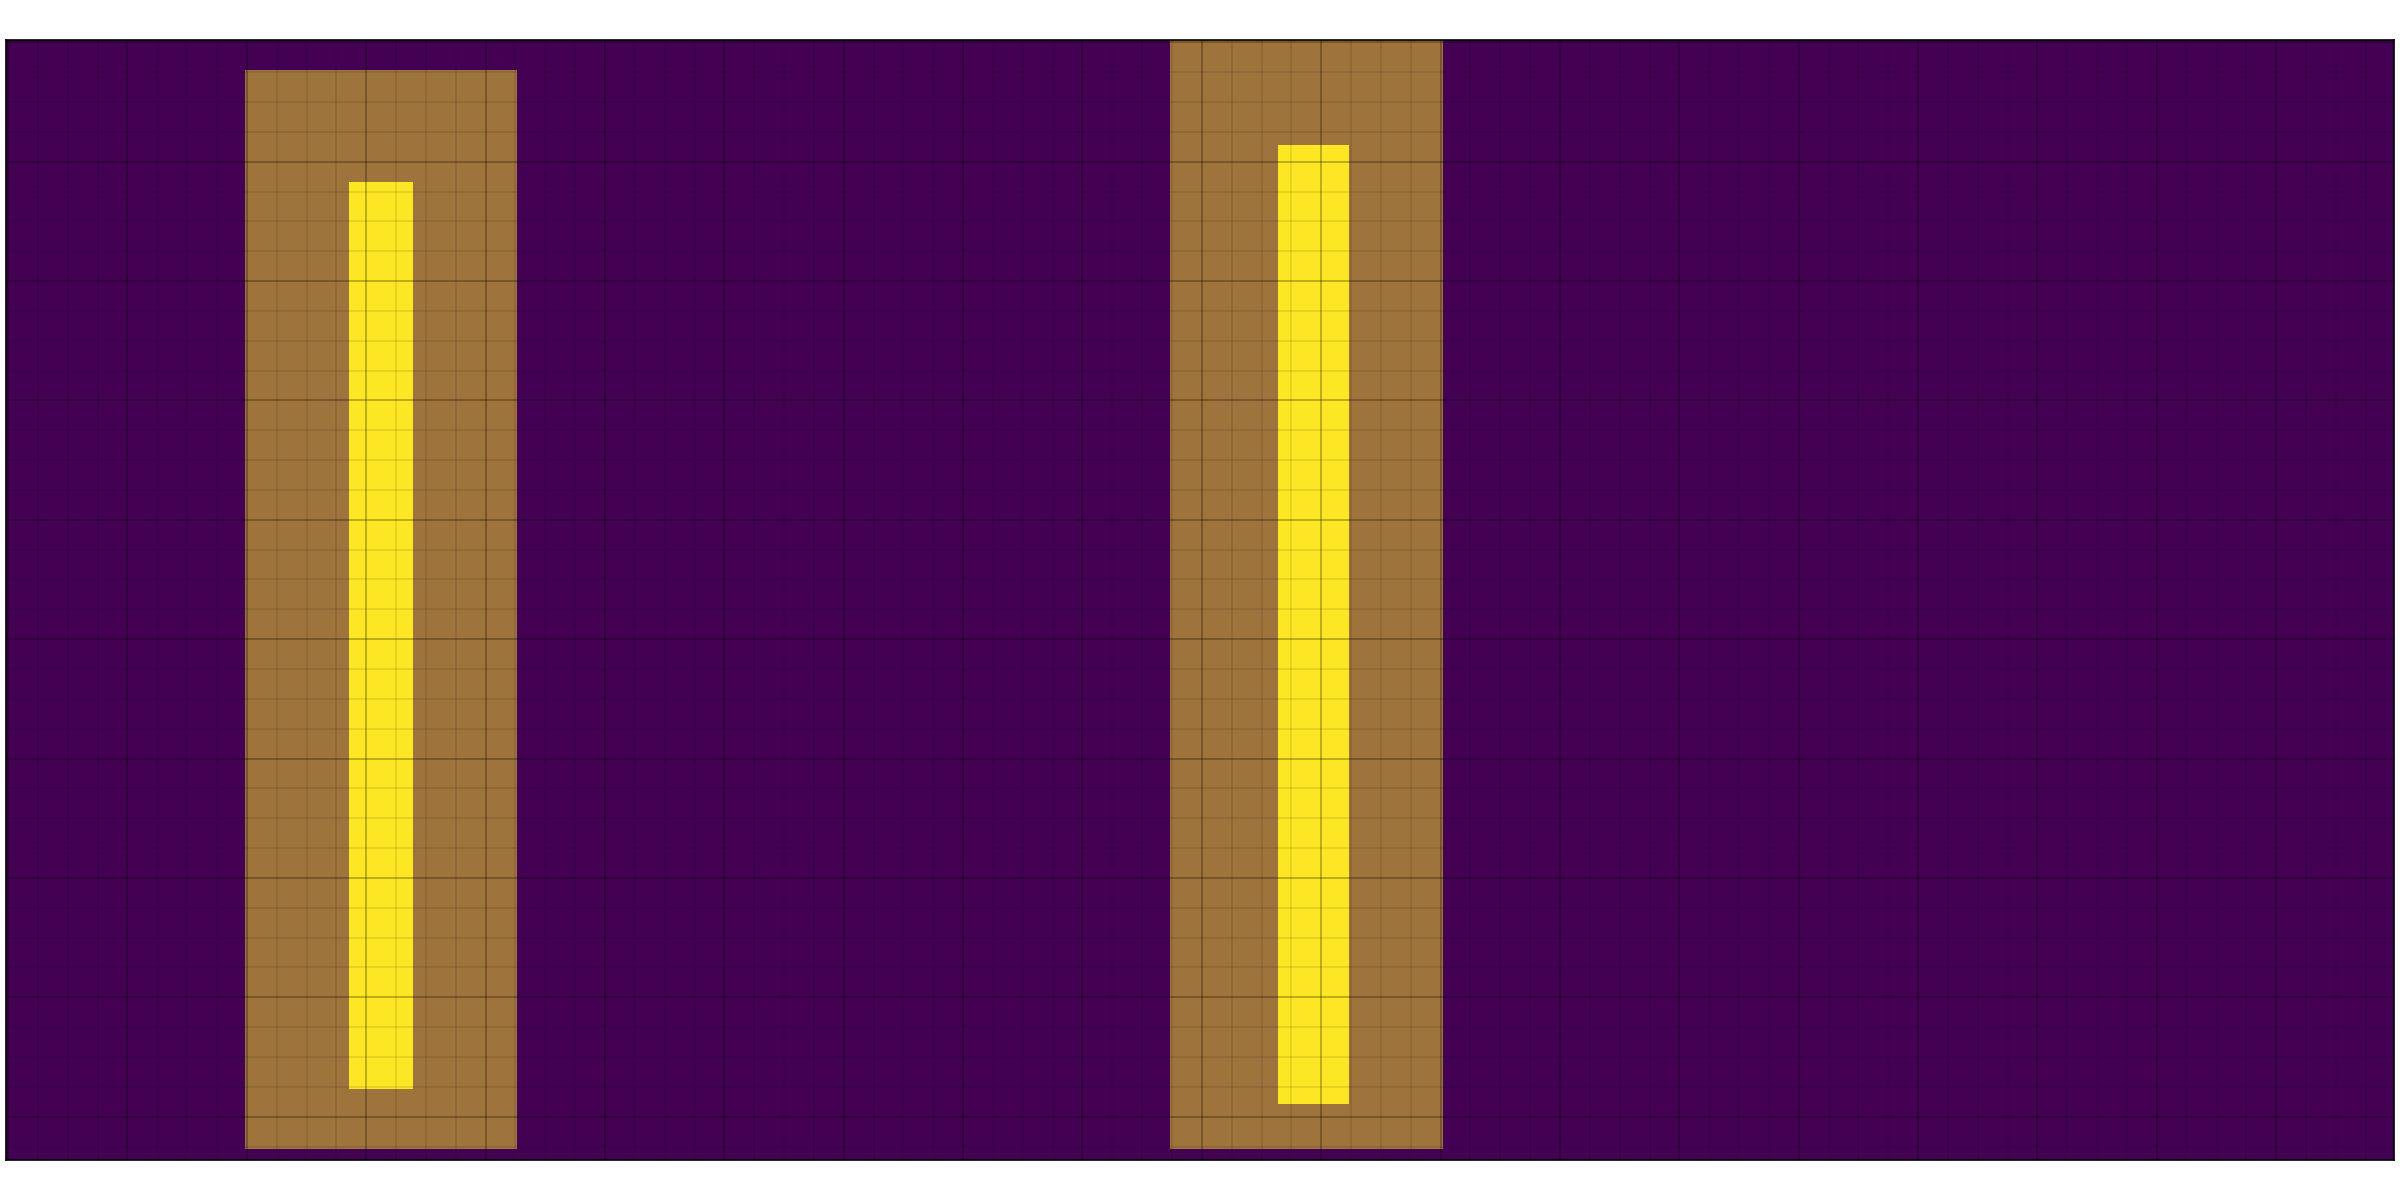
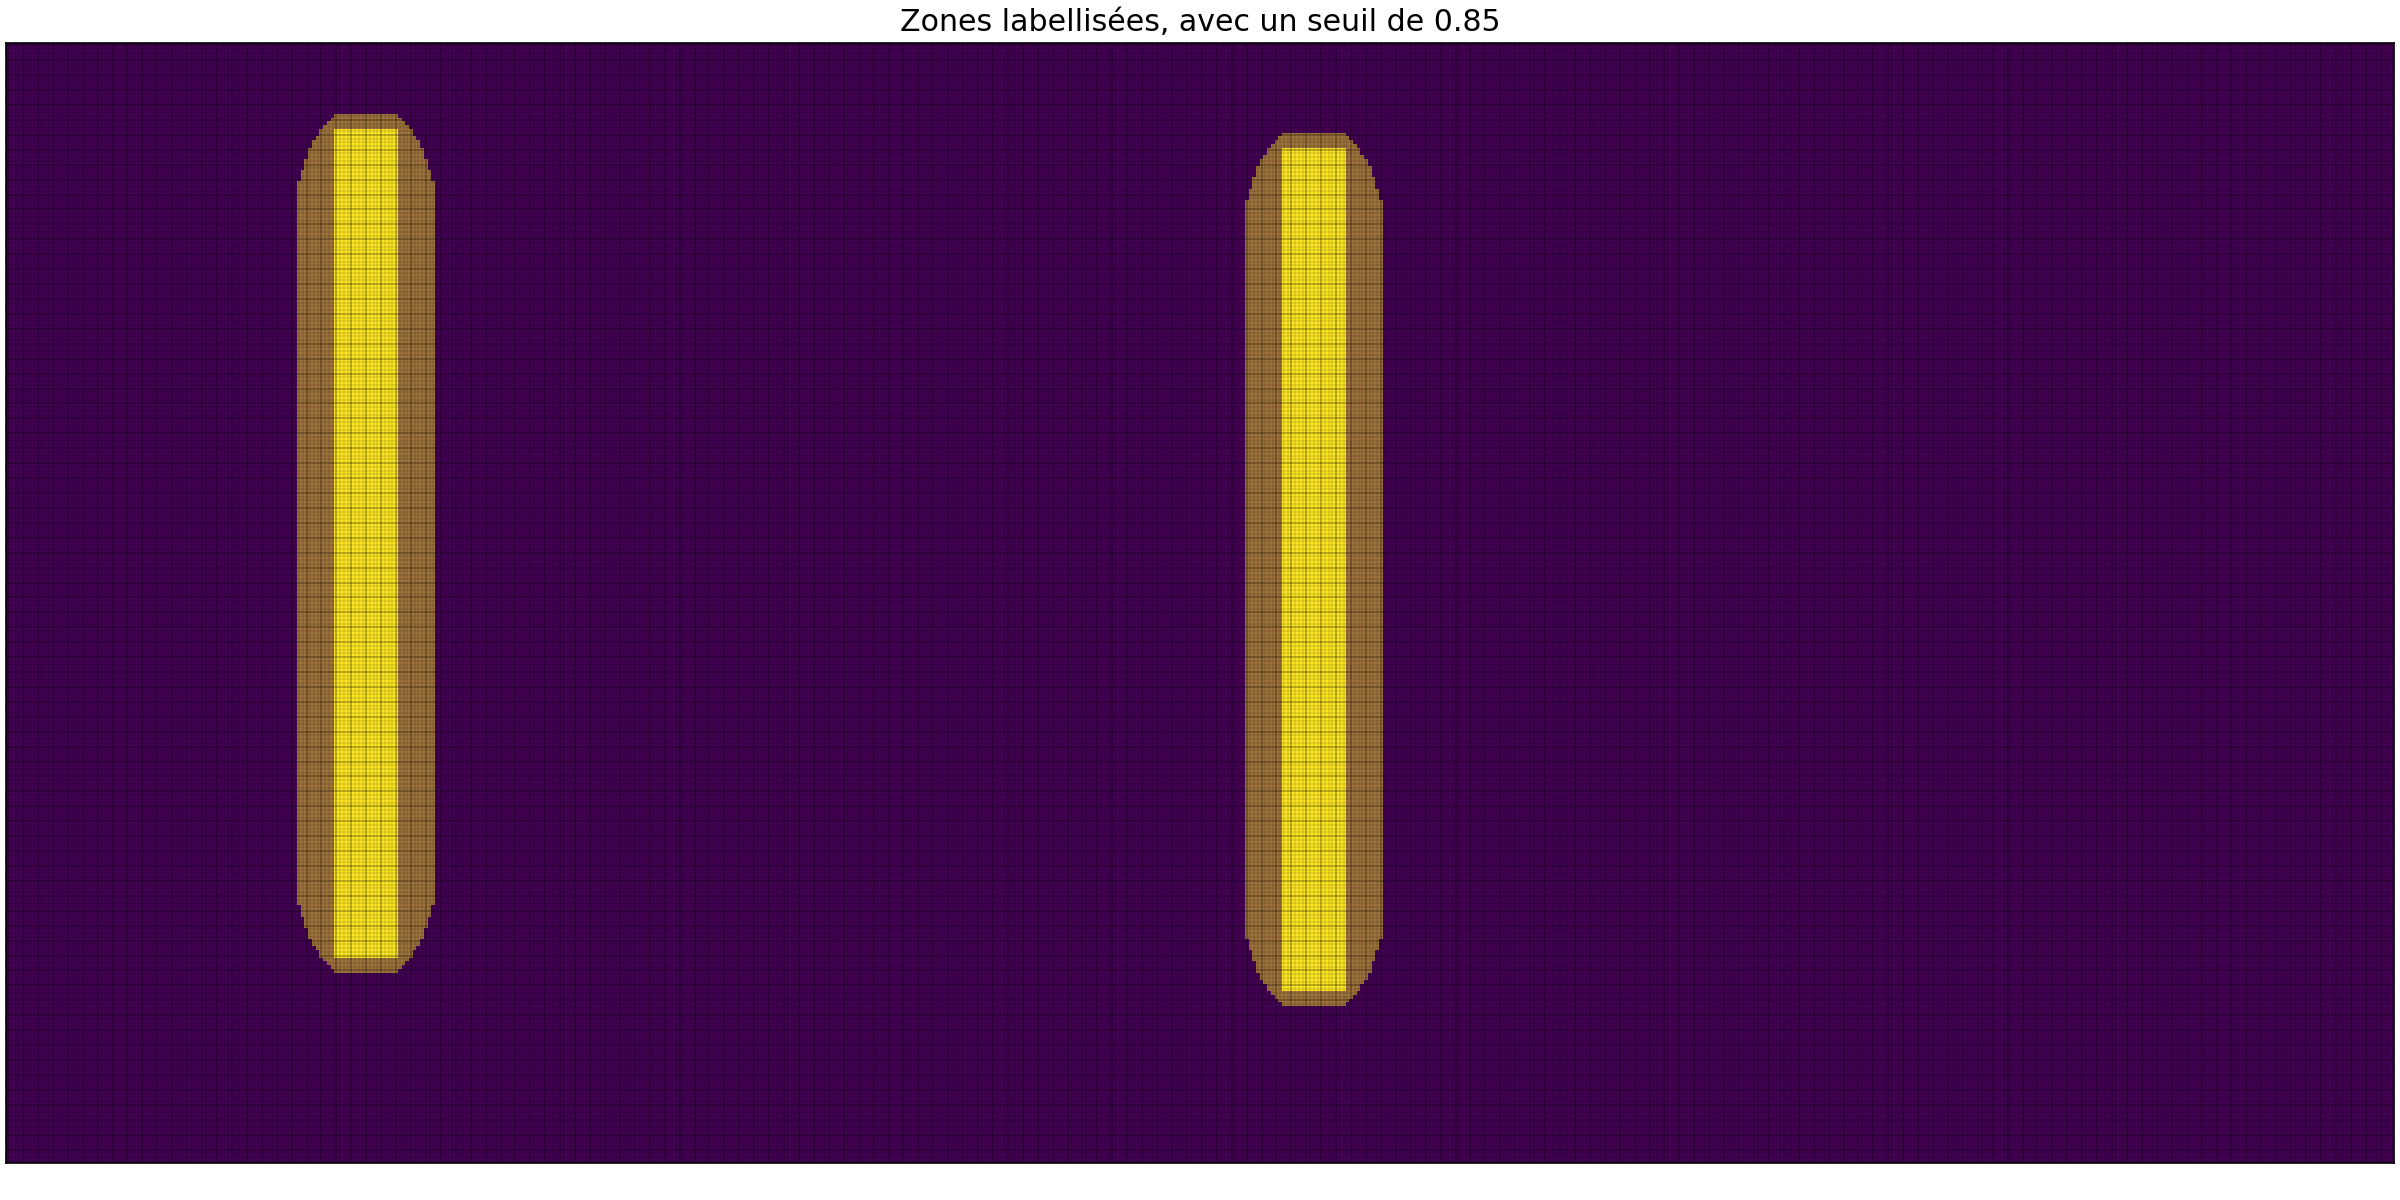
Ajout de seuil sur le masque.

diff --git a/ImageSynthetique.py b/ImageSynthetique.py
@@ -72,7 +72,7 @@ class Image:
 
         self.image = cv2.bitwise_and(self.image, self.image, mask = mask_2)
         self.image = cv2.add(self.image, image_resize)
-        self.objects.append({'spacing': spacing//times, 'length': length//times, 'lines': lines, 'coords': (rect_top,rect_bottom)})
+        self.objects.append({'coords': (rect_top,rect_bottom), 'spacing': spacing//times, 'length': length//times, 'lines': lines})
         pass
 
     def plot_masked(self):
@@ -80,7 +80,7 @@ class Image:
         fig = plt.imshow(masked, vmin=0, vmax=255)
         pass
 
-    def plot_label(self):
+    def plot_label(self,with_coords=True):
         fig = plt.figure()
         plt.imshow(self.image, vmin=0, vmax=255)
         for obj in self.objects:
@@ -90,11 +90,12 @@ class Image:
             h = coords[1][1] - coords[0][1]
             plt.gca().add_patch(patches.Rectangle(pt,w,h,linewidth=1,edgecolor='r',facecolor='none'))
             text = ''
-            for attribute in list(obj.keys())[:-1]:
-                if attribute != list(obj.keys())[-2]:
-                    text += attribute + ': '+str(obj[attribute])+'\n'
+            for attribute in list(obj.keys()):
+                if with_coords and attribute == list(obj.keys())[0]:
+                    text += 'y: ('+ str(obj[attribute][0][1])+':'+str(obj[attribute][1][1])+')\n'
                 else:
-                    text += attribute + ': '+str(obj[attribute])
+                    text += attribute + ': '+str(obj[attribute])+'\n'
+            text = text[:-1]
             pad = 5
             plt.gca().text(pt[0]+w+1+pad/2, pt[1]+pad/2, text,
                             color='white',
@@ -104,13 +105,16 @@ class Image:
 
         return fig
 
-    def sliding_window(self, window_size, pad_h, pad_v):
-        windows_h = (self.width - window_size) // pad_h + 1
-        windows_v = (self.height - window_size) // pad_v + 1
+    def sliding_window(self, window_size, pad_h, pad_v, threshold):
+        self.window_size = window_size
+        self.pad_h, self.pad_v = (pad_h, pad_v)
+        windows_h = (self.width - window_size) // pad_h +1
+        windows_v = (self.height - window_size) // pad_v +1
         crops = np.zeros((windows_v, windows_h, window_size, window_size))
         labels = np.zeros((windows_v, windows_h))
         segmentation_crops = np.zeros((windows_v, windows_h, window_size, window_size))
         number = np.zeros_like(labels)
+        max = self.mask.max()
         for j in range(windows_v):
             y_top = j*pad_v
             y_bottom = j*pad_v + window_size
@@ -120,21 +124,23 @@ class Image:
                 crop = self.image[y_top:y_bottom, x_top:x_bottom]
                 crops[j,i,:,:] = crop
                 mask_crop = self.mask[y_top:y_bottom, x_top:x_bottom]
-                # if mask_crop[mask_crop>0].size > 510:
+                # if mask_crop[mask_crop>0].size > threshold:
                 #     labels[j,i] = 1
-                labels[j,i] = mask_crop[mask_crop>0].size
-                if labels[j,i] :
+                #labels[j,i] = mask_crop[mask_crop>0].size
+                if mask_crop[mask_crop>0].size:
                     lower = ([x_top,y_top]<self.lines[-1]).any(axis=1).all(axis=1)
                     higher = (self.lines[-1]<[x_bottom,y_bottom]).any(axis=1).all(axis=1)
                     slice = np.logical_and(lower,higher)
                     number[j,i]= self.lines[-1][slice].shape[0]
                     segmentation_crop = self.segmentation[y_top:y_bottom, x_top:x_bottom]
+                    if mask_crop[mask_crop>0].size > threshold*max:
+                        labels[j,i] = 1
                     segmentation_crops[j,i,:,:] = segmentation_crop
 
         return crops, labels, number, segmentation_crops
 
-    def compare_labels(self, resampled_labels, pad_h, pad_v, window_size):
-        new_labels = self.resize_labels(resampled_labels, pad_h, pad_v, window_size)
+    def compare_labels(self, resampled_labels, threshold):
+        new_labels = self.resize_labels(resampled_labels)
 
         fig = plt.figure()
         ax = fig.gca()
@@ -154,16 +160,16 @@ class Image:
             left=False,
             grid_color='black',
             grid_alpha=0.1)
-        ax.set_xticks(np.arange(0, self.width, pad_h), minor=True)
-        ax.set_yticks(np.arange(0, self.height, pad_v), minor=True)
-        ax.set_xticks(np.arange(0, self.width, pad_h*4))
-        ax.set_yticks(np.arange(0, self.height, pad_v*4))
-
+        ax.set_xticks(np.arange(0, self.width, self.pad_h), minor=True)
+        ax.set_yticks(np.arange(0, self.height, self.pad_v), minor=True)
+        ax.set_xticks(np.arange(0, self.width, self.pad_h*4))
+        ax.set_yticks(np.arange(0, self.height, self.pad_v*4))
+        plt.title('Zones labellisées, avec un seuil de '+str(threshold))
         plt.imshow(self.mask, vmin=0, vmax=255)
         plt.imshow(new_labels, vmin=0, vmax=1, alpha=0.5)
 
         # pairs = np.array(np.where(resampled_labels>0)).transpose()[:,[1, 0]]
-        # new_points = np.array([element*[pad_h,pad_v]+[window_size//2, window_size//2] for element in pairs ])
+        # new_points = np.array([element*[self.pad_h,self.pad_v]+[self.window_size//2, self.window_size//2] for element in pairs ])
         # plt.scatter(new_points[:,0],new_points[:,1], s=1)
         # And a corresponding grid
         ax.grid(which='both')
@@ -171,17 +177,14 @@ class Image:
         #ax.grid(which='major', alpha=0.5, color='black')
         pass
 
-    def resize_labels(self, labels, pad_h, pad_v, window_size):
+    def resize_labels(self, labels):
         labels_resize = np.zeros_like(self.mask, np.float32)
 
         obj = np.array(np.where(labels>0))
         pairs = obj.transpose()[:,[1, 0]]
-        #labels *= 255
-        # print(labels.max())
         for pair in pairs:
-            start = tuple(pair*[pad_h,pad_v])
-            end = tuple(pair*[pad_h,pad_v] + [window_size, window_size])
-            #pair = tuple(pair)
+            start = tuple((pair-1)*[self.pad_h,self.pad_v]+self.window_size//2+[self.pad_h//2,self.pad_v//2])
+            end = tuple((pair)*[self.pad_h,self.pad_v]+self.window_size//2+[self.pad_h//2,self.pad_v//2])
             pair = (pair[1], pair[0])
             labels_resize = cv2.rectangle(labels_resize, start, end, 1, -1)
 
@@ -191,18 +194,6 @@ class Image:
 def noisy(image, height, intensity):
     row,col= image.shape
     out = np.copy(image)
-    # s_vs_p = 0.5
-    # amount = 0.1
-    # # Salt mode
-    # num_salt = np.ceil(amount * image.size * s_vs_p)
-    # coords = [np.random.randint(0, i - 1, int(num_salt))
-    #       for i in image.shape]
-    # out[tuple(coords)] += height
-    # # Pepper mode
-    # num_pepper = np.ceil(amount* image.size * (1. - s_vs_p))
-    # coords = [np.random.randint(0, i - 1, int(num_pepper))
-    #       for i in image.shape]
-    # out[tuple(coords)] -= height
-    random = np.round(np.random.rand(row, col) * intensity)
+    random = np.round(np.random.normal(loc=intensity/2,scale=intensity/2, size=(row, col)))
     out += random
     return out

diff --git a/main.py b/main.py
@@ -4,14 +4,15 @@ import sys
 
 def main():
     height, width = (300, 640)
+    threshold = float(sys.argv[2])
     var_time = timing()
     if sys.argv[1] == 'train':
         # Image test
         train = Image(height, width)
-        train.add_object(starting_pt = [100, 40],
-                        spacing = 7, length = 12,lines = 35)
+        train.add_object(starting_pt = [24*4, 25],
+                        spacing = 7, length = 12,lines = 32)
         train.add_object(starting_pt = [350, 30],
-                        spacing = 13, length = 14,lines = 22)
+                        spacing = 13, length = 12,lines = 18)
         train.plot_label()
         plt.savefig('train')
         var_time = timing('train', var_time)
@@ -21,7 +22,7 @@ def main():
         pad_h = 1
         pad_v = 1
 
-        crops, labels, number, segmentation_crops = train.sliding_window(window_size, pad_h, pad_v)
+        crops, labels, number, segmentation_crops = train.sliding_window(window_size, pad_h, pad_v, threshold)
         var_time = timing('sliding_window', var_time)
 
         indexes = (40//pad_v,50//pad_h-1)
@@ -31,7 +32,7 @@ def main():
         plt.imshow(segmentation_crops[indexes])
         plt.savefig('crop')
 
-        train.compare_labels(labels, pad_h, pad_v, window_size)
+        train.compare_labels(labels, threshold)
         var_time = timing('compare', var_time)
         plt.savefig('compare')
         var_time = timing('save', var_time)
